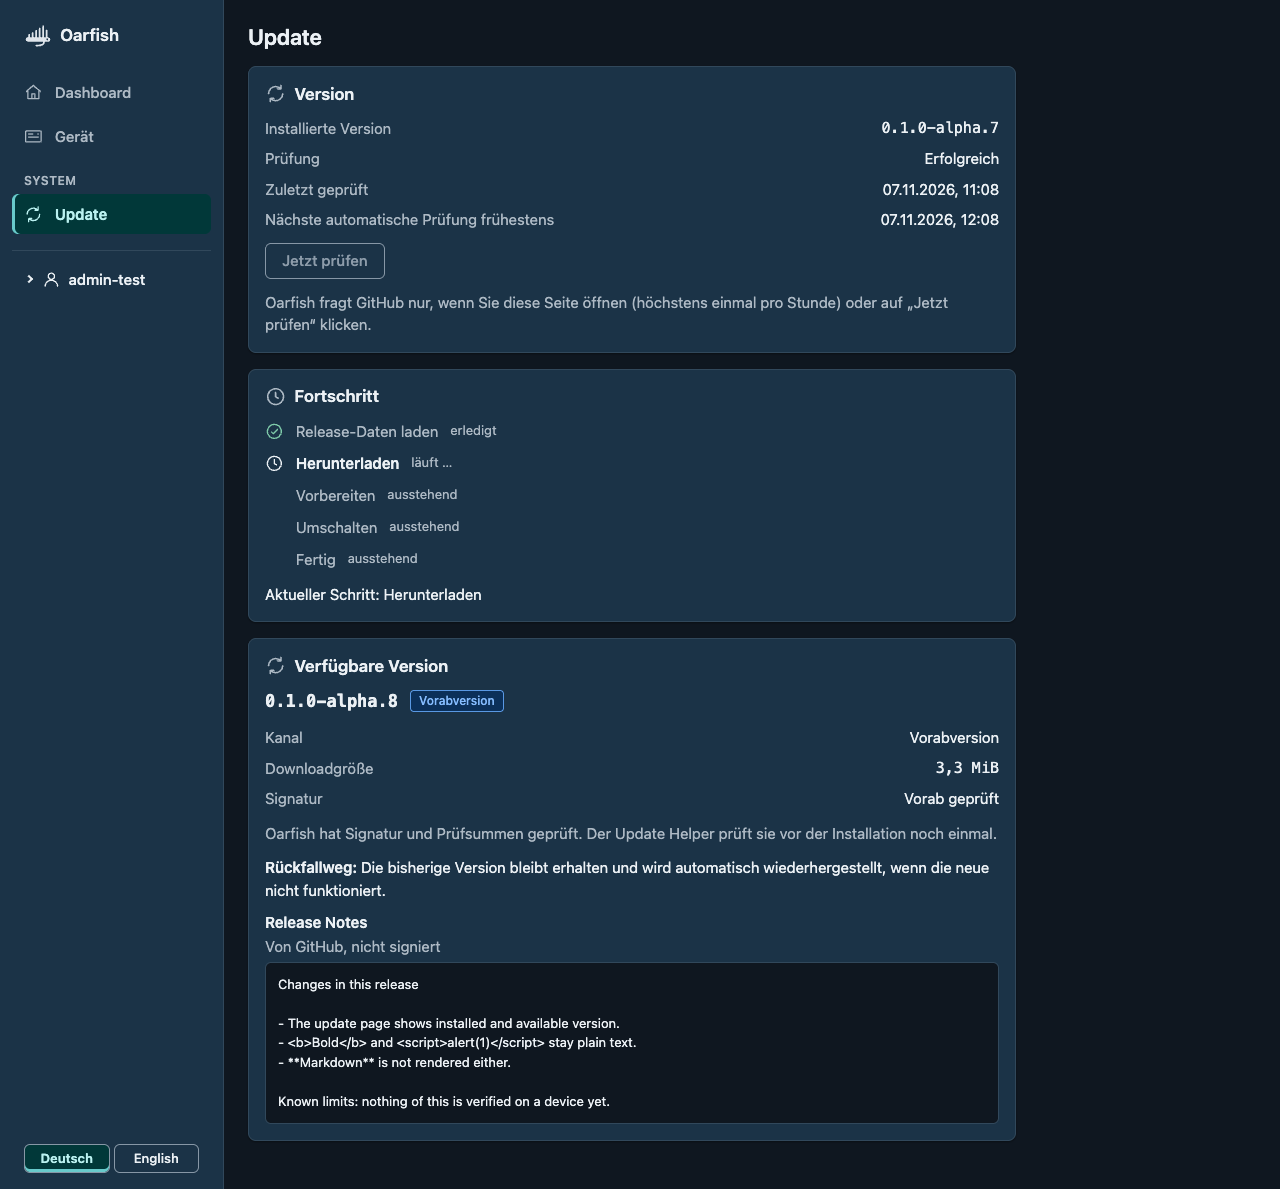
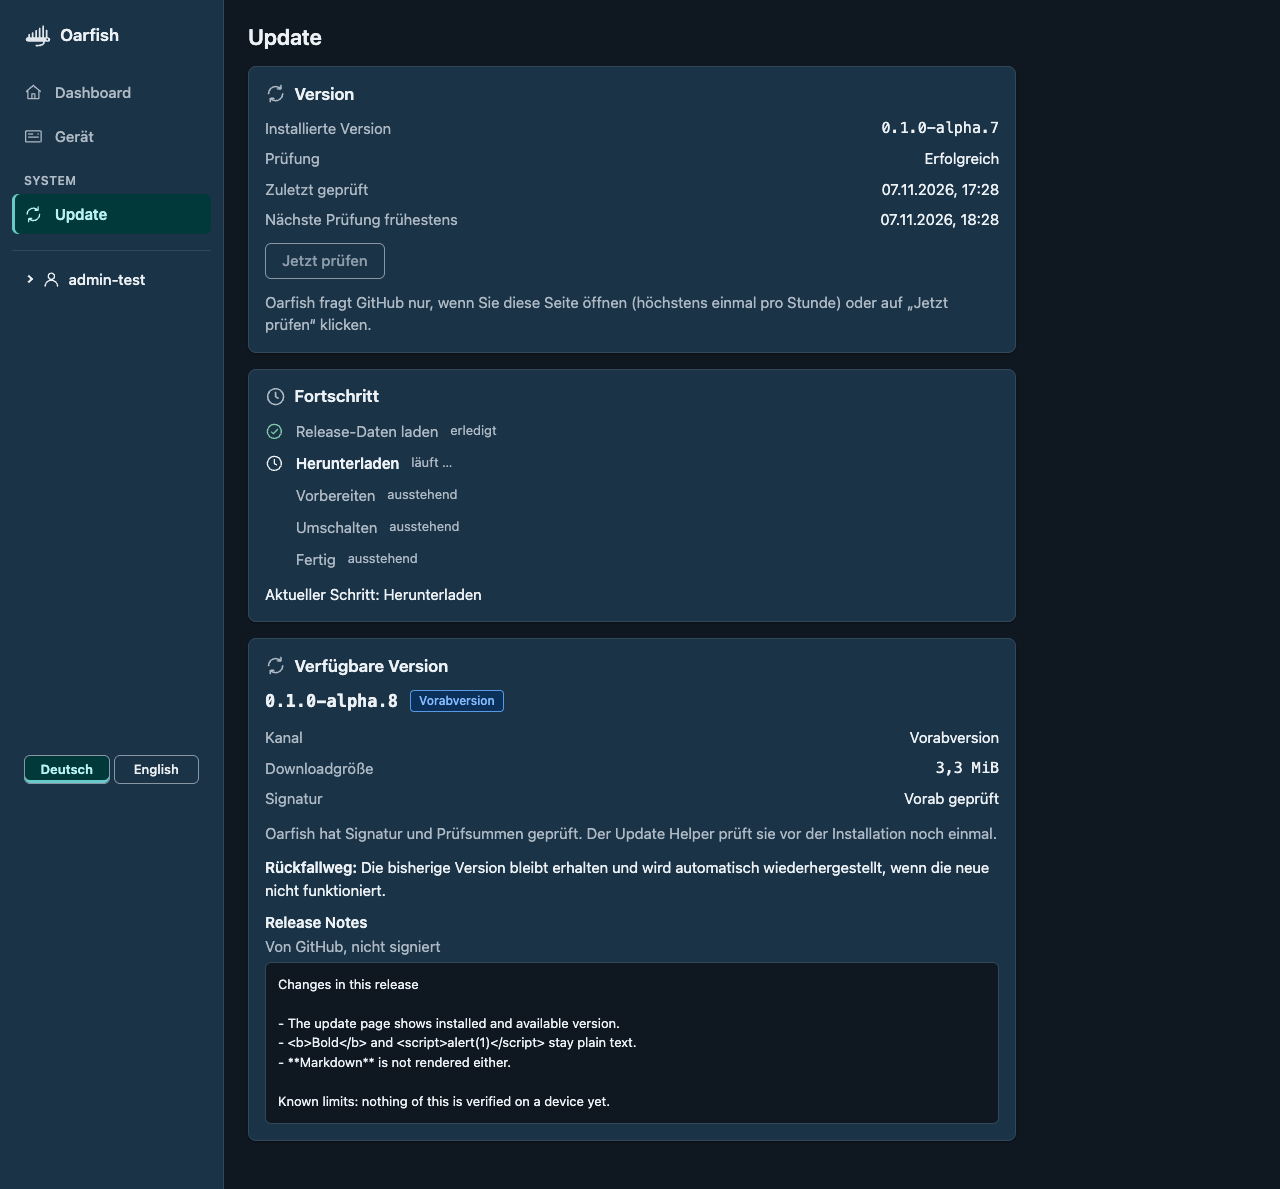
Update page: the next-check label no longer says automatic (G6.8)
Oarfish has no automatic check: the page checks when it is opened or on
"Check now" (ADR 0010 A11.1). Text changed in both languages, the text table
in UI.md, the bundle sizes and the 30 reference screenshots.

diff --git a/frontend/src/lib/locales/de.ts b/frontend/src/lib/locales/de.ts
@@ -254,7 +254,7 @@ export const deUi = {
   'updCheckState.ok': 'Erfolgreich',
   'updCheckState.error': 'Fehlgeschlagen',
   updCheckedAt: 'Zuletzt geprüft',
-  updNextCheckAt: 'Nächste automatische Prüfung frühestens',
+  updNextCheckAt: 'Nächste Prüfung frühestens',
   updNever: 'Noch nie',
   updCheckNote: 'Oarfish fragt GitHub nur, wenn Sie diese Seite öffnen (höchstens einmal pro Stunde) oder auf „Jetzt prüfen“ klicken.',
   updCheckNow: 'Jetzt prüfen',

diff --git a/frontend/src/lib/locales/en.ts b/frontend/src/lib/locales/en.ts
@@ -242,7 +242,7 @@ export const enUi: { [K in keyof typeof deUi]: string } = {
   'updCheckState.ok': 'Successful',
   'updCheckState.error': 'Failed',
   updCheckedAt: 'Last checked',
-  updNextCheckAt: 'Next automatic check at the earliest',
+  updNextCheckAt: 'Next check no earlier than',
   updNever: 'Never',
   updCheckNote: 'Oarfish asks GitHub only when you open this page (at most once an hour) or select “Check now”.',
   updCheckNow: 'Check now',

diff --git a/docs/UI.md b/docs/UI.md
@@ -556,7 +556,7 @@ All texts the interface says about itself are in one group, `deUi` in [`frontend
 | `updCheckState.ok` | Erfolgreich | Successful |
 | `updCheckState.error` | Fehlgeschlagen | Failed |
 | `updCheckedAt` | Zuletzt geprüft | Last checked |
-| `updNextCheckAt` | Nächste automatische Prüfung frühestens | Next automatic check at the earliest |
+| `updNextCheckAt` | Nächste Prüfung frühestens | Next check no earlier than |
 | `updNever` | Noch nie | Never |
 | `updCheckNote` | Oarfish fragt GitHub nur, wenn Sie diese Seite öffnen (höchstens einmal pro Stunde) oder auf „Jetzt prüfen“ klicken. | Oarfish asks GitHub only when you open this page (at most once an hour) or select “Check now”. |
 | `updCheckNow` | Jetzt prüfen | Check now |
@@ -824,10 +824,10 @@ Initial frontend, `gzip -9` per file (the budget in ORB-NFR-006 is 750,000 bytes
 
 | | Before the UI foundation | After the UI foundation | After Gate G5.1 | After the known-gaps task | After task U1 | After step G6.8 |
 |---|---|---|---|---|---|---|
-| `index.html` | 263 | 265 | 266 | 263 | 261 | 265 |
+| `index.html` | 263 | 265 | 266 | 263 | 261 | 267 |
 | CSS | 1,806 | 4,522 | 5,003 | 5,013 | 5,144 | 5,405 |
-| JavaScript | 27,122 | 36,258 | 43,195 | 43,283 | 44,632 | 56,274 |
-| **Total** | **29,191** | **41,045** | **48,464** | **48,559** | **50,037** | **61,944** |
+| JavaScript | 27,122 | 36,258 | 43,195 | 43,283 | 44,632 | 56,273 |
+| **Total** | **29,191** | **41,045** | **48,464** | **48,559** | **50,037** | **61,945** |
 
 The G5.1 column is the output of `scripts/check-budgets.sh` (`gzip -9 -n` per file) on a developer Mac; `main` before the change, rebuilt the same way, gave 41,108 (the alert tuning changed the script slightly after the 41,045 above). The access pages add 7,356 bytes. No dependency was added. The known-gaps task adds 95 bytes (measured the same way). Task U1 (with the colour baseline and the mark) adds 1,478 bytes (language choice, the English texts in the bundle, the grouped navigation, the footer); measured with `gzip -9 -n` per file on a developer Mac, no dependency added. Step G6.8 adds 11,907 bytes (the Update page, its client and 139 texts in each language); `main` before it was rebuilt and measured the same way (50,037). The development scenario mode is not in the build: `vite.config.ts` fails the build if its marker string appears in any output file.
 
